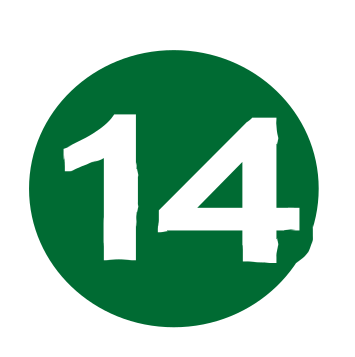
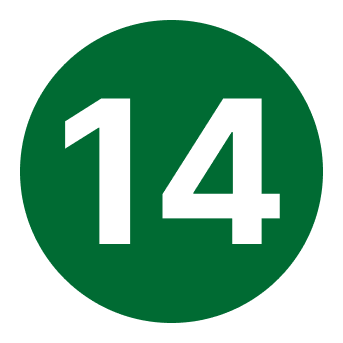
change level buttons, change topics, change level rows to 16 in database, write update state logic for practice

Changed region(s): [[0.0583, 0.0583, 0.9621, 0.9621], [0.4373, 0.2624, 0.8455, 0.758], [0.1749, 0.2624, 0.4082, 0.7289]]

diff --git a/android/src/com/wheelie/co/Graphics/LevelsScreen.java b/android/src/com/wheelie/co/Graphics/LevelsScreen.java
@@ -198,7 +198,7 @@ public class LevelsScreen extends ScreenAdapter implements InputProcessor {
         levelsBtns.get(6).setPosition(levelsBtns.get(1).getX()+280,levelsBtns.get(5).getY());
         levelsBtns.get(7).setPosition(levelsBtns.get(0).getX()+300,levelsBtns.get(5).getY());
         levelsBtns.get(8).setPosition(70,levelsBtns.get(7).getY()-10);
-        levelsBtns.get(8).setSize(280,210);
+        //levelsBtns.get(8).setSize(280,210);
         levelsBtns.get(9).setPosition(-25,GraphicConstants.rowHeight*3 + 60);
         //levelsBtns.get(9).setSize(290,220);
         levelsBtns.get(10).setPosition(-30,GraphicConstants.rowHeight*2+110);
@@ -293,16 +293,13 @@ public class LevelsScreen extends ScreenAdapter implements InputProcessor {
         topics.add("Тема 10. Обгін");
         topics.add("Тема 11. Зупинка і стоянка");
         topics.add("Тема 12. Проїзд\n" +
-                "а.перехресть\n" +
+                "а.перехресть, зупинок\n" +
                 "б.пішохідних переходів");
-        topics.add("Тема 13. Проїзд ІІ\n" +
-                "а.зупинок\n" +
-                "б.через залізничні переїзди");
-        topics.add("Тема 14. Користування\nсвітловими приладами");
-        topics.add("Тема 15. Перевезення\n" +
-                "а.пасажирів  " +
-                "б.вантажу\n" +
-                "в.інших транспортних засобів");
+        topics.add("Тема 13. Номерні,\nрозпізнавальні знаки,\nнаписи і позначення");
+        topics.add("Тема 14. Дорожні знаки\n і розмітка");
+        topics.add("Тема 15. Рух\n" +
+                "а.житлова/пішохідна зона\n" +
+                "б.по автомагістралях");
 
         int counter=0;
         for(final String topic: topics){

diff --git a/android/src/com/wheelie/co/levels20/IntermediateScreen.java b/android/src/com/wheelie/co/levels20/IntermediateScreen.java
@@ -151,10 +151,19 @@ public class IntermediateScreen extends ScreenAdapter implements InputProcessor 
                 /**якщо це екран завершення практики, повертати в головне меню**/
             if(state!=0)  {
 
+                /**оновлення очків юзера за цю практику якщо він набрав більше за попередній результат**/
                if(getUserScoreForLevel(app.getDatabase(),userId,level.levelNumb)<level.currentscore && !failure) {
                    updateUserScoreForLevel(app.getDatabase(),userId, level.levelNumb, level.currentscore);
                }
+                /**якщо пройдено на максимум, заноситься стан 2 в базу даних цього рівня і користувача**/
+               if(!failure && level.currentscore>=level.maximumScore) {
+                   updateUserStateForLevel(app.getDatabase(),userId,level.levelNumb,2);
+               }
+               /**якщо не на максимум, то стан 1**/
+               else if(!failure) {
+                   updateUserStateForLevel(app.getDatabase(),userId,level.levelNumb,1);
 
+               }
 
 
                 app.setScreen(new LevelsScreen(app,userId));
@@ -239,6 +248,13 @@ dispose();
     public void updateUserScoreForLevel(SQLiteDatabase database, int userId, int levelNumb, int newScore) {
         String query = "UPDATE scores SET score = ? WHERE userId = ? AND levelNumb = ?";
         Object[] args = {newScore, userId, levelNumb};
+
+        database.execSQL(query, args);
+    }
+
+    public void updateUserStateForLevel(SQLiteDatabase database, int userId, int levelNumb, int newState) {
+        String query = "UPDATE scores SET state = ? WHERE userId = ? AND levelNumb = ?";
+        Object[] args = {newState, userId, levelNumb};
 
         database.execSQL(query, args);
     }

diff --git a/android/src/DBWorkH/DatabaseHelperH.java b/android/src/DBWorkH/DatabaseHelperH.java
@@ -72,6 +72,7 @@ public class DatabaseHelperH extends SQLiteOpenHelper {
                 "userId INTEGER NOT NULL, " +
                 "levelNumb INTEGER NOT NULL, " +
                 "score INTEGER NOT NULL, " +
+                "state INTEGER NOT NULL, " +
                 "FOREIGN KEY (userId) REFERENCES users(id) ON DELETE CASCADE" +
                 ")";
 
@@ -208,11 +209,12 @@ public class DatabaseHelperH extends SQLiteOpenHelper {
         db.insertWithOnConflict("userInfo", null, userInfoValues2, SQLiteDatabase.CONFLICT_REPLACE);
 
         for (int userId = 1; userId <= 2; userId++) {
-            for (int levelNumb = 1; levelNumb <= 20; levelNumb++) {
+            for (int levelNumb = 1; levelNumb <= 16; levelNumb++) {
                 ContentValues valuess = new ContentValues();
                 valuess.put("userId", userId);
                 valuess.put("levelNumb", levelNumb);
                 valuess.put("score", 0);
+                valuess.put("state", 0);
 
                 long rowId = db.insert("scores", null, valuess);
 
@@ -319,7 +321,7 @@ public class DatabaseHelperH extends SQLiteOpenHelper {
         "Смуга руху для аварійної зупинки", "Кінець пішохідної зони","Пішохідний перехід"};
         for(int i=1;i<16;i++){
             relationsValues = new ContentValues();
-            relationsValues.put("levelNumb", 18);
+            relationsValues.put("levelNumb", 14);
             relationsValues.put("text", texts[i-1]);
             relationsValues.put("answer", "sign"+i+".png");
             relationsValues.put("type", "image");

diff --git a/android/src/com/wheelie/co/Graphics/RegistrationScreen.java b/android/src/com/wheelie/co/Graphics/RegistrationScreen.java
@@ -287,11 +287,12 @@ public class RegistrationScreen extends ScreenAdapter implements InputProcessor 
 
 
         /**створюємо рядки рівень-кількість балів для нового юзера**/
-        for (int levelNumb = 1; levelNumb <= 20; levelNumb++) {
+        for (int levelNumb = 1; levelNumb <= 16; levelNumb++) {
             ContentValues valuess = new ContentValues();
             valuess.put("userId", userId);
             valuess.put("levelNumb", levelNumb);
             valuess.put("score", 0);
+            valuess.put("state", 0);
 
             long rowId = db.insert("scores", null, valuess);
 

diff --git a/android/src/DBWorkH/DBConstants.java b/android/src/DBWorkH/DBConstants.java
@@ -9,5 +9,7 @@ public class DBConstants {
     public static final String RELATIONS_TABLE= "normalRelationsQuestion";
     public static final String THEORY_TABLE= "theory";
 
+    public static final String CHOICE_QUESTION = "simpleChoiceQuestion";
+
 
 }
